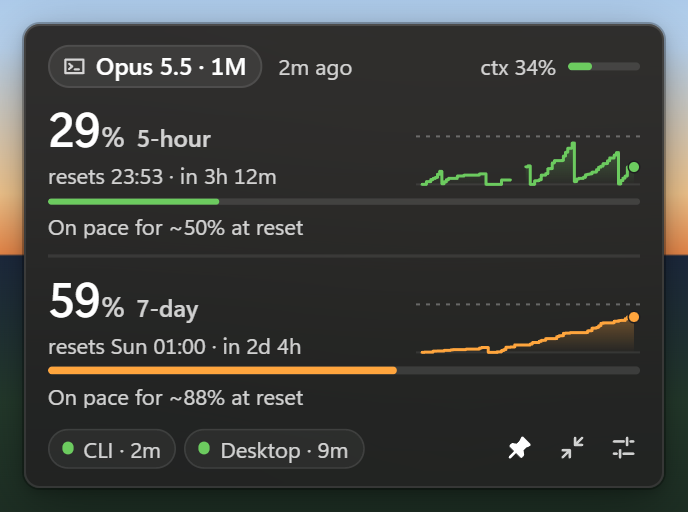
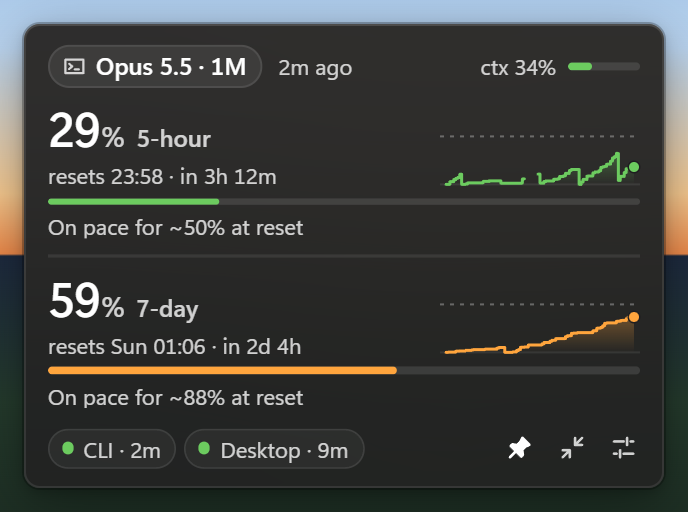
fix: reset lines and Esc

diff --git a/src/lib/format.ts b/src/lib/format.ts
@@ -201,13 +201,16 @@ export function splitUnits(s: string): TextRun[] {
   return Array.from(s.matchAll(/(\d[\d:]*)|(\D+)/g), (m) => ({ text: m[0], unit: m[1] === undefined }));
 }
 
-/** Card reset line: "resets 15:40 · in 3h 12m" (with "~" when estimated). */
+/**
+ * Card reset line: "resets 15:40 · in 3h 12m"; an estimate is marked once, on the clock
+ * ("resets ~15:40 · in 3h 12m"), so 12-hour locales still fit beside the sparkline.
+ */
 export function resetLine(w: Pick<WindowView, "phase" | "reset">, now: number, opts: ClockOptions = {}): string {
   if (awaitingReset(w, now)) return "reset — waiting for data";
   const at = resetAt(w.reset);
   if (at === null) return "reset time unknown";
   const t = isEstimated(w.reset) ? "~" : "";
-  return `resets ${t}${formatClock(at, now, opts)} · in ${t}${formatCountdown(at - now)}`;
+  return `resets ${t}${formatClock(at, now, opts)} · in ${formatCountdown(at - now)}`;
 }
 
 /** Tooltip for an estimated reset, e.g. "Estimated from Claude Desktop history, ±25m (medium confidence)". */

diff --git a/src/lib/format.test.ts b/src/lib/format.test.ts
@@ -144,7 +144,8 @@ describe("reset lines", () => {
     expect(pillCountdown({ phase: "active", reset: exact }, NOW)).toBe("3h 40m");
   });
   it("marks estimated resets with ~", () => {
-    expect(resetLine({ phase: "active", reset: est }, NOW, GB)).toBe("resets ~15:40 · in ~3h 40m");
+    expect(resetLine({ phase: "active", reset: est }, NOW, GB)).toBe("resets ~15:40 · in 3h 40m");
+    expect(resetLine({ phase: "active", reset: est }, NOW, US)).toMatch(/^resets ~3:40\sPM · in 3h 40m$/u);
     expect(pillCountdown({ phase: "active", reset: est }, NOW)).toBe("~3h 40m");
     expect(estimateTooltip(est)).toBe("Estimated from Claude Desktop history, ±25m (medium confidence)");
     expect(estimateTooltip(exact)).toBeUndefined();

diff --git a/src/lib/components/WindowSection.svelte b/src/lib/components/WindowSection.svelte
@@ -37,7 +37,7 @@
         {resetLine(w, now)}{#if tip}<span class="pm" aria-hidden="true">±</span>{/if}
       </div>
     </div>
-    <Sparkline points={w.spark} pct={p} stale={w.stale} height={36} label="{label} usage over the last {span}" />
+    <Sparkline points={w.spark} pct={p} stale={w.stale} width={100} height={36} label="{label} usage over the last {span}" />
   </div>
   <div class="bar" role="progressbar" aria-label="{label} usage" aria-valuemin={0} aria-valuemax={100} aria-valuenow={Math.round(p)}>
     <div class="fill" style:width="{p}%" style:background={color}></div>

diff --git a/src/lib/components/Settings.svelte b/src/lib/components/Settings.svelte
@@ -87,8 +87,10 @@
 
 <svelte:window
   onkeydown={(e) => {
-    // Esc leaves settings (the shortcut recorder handles its own Esc and stops propagation).
-    if (e.key === "Escape" && !e.defaultPrevented) void app.back();
+    // Esc leaves settings, except while typing in a field (the shortcut recorder handles its
+    // own Esc and stops propagation).
+    const typing = e.target instanceof Element && e.target.closest("input, select, textarea");
+    if (e.key === "Escape" && !e.defaultPrevented && !typing) void app.back();
   }}
 />
 
